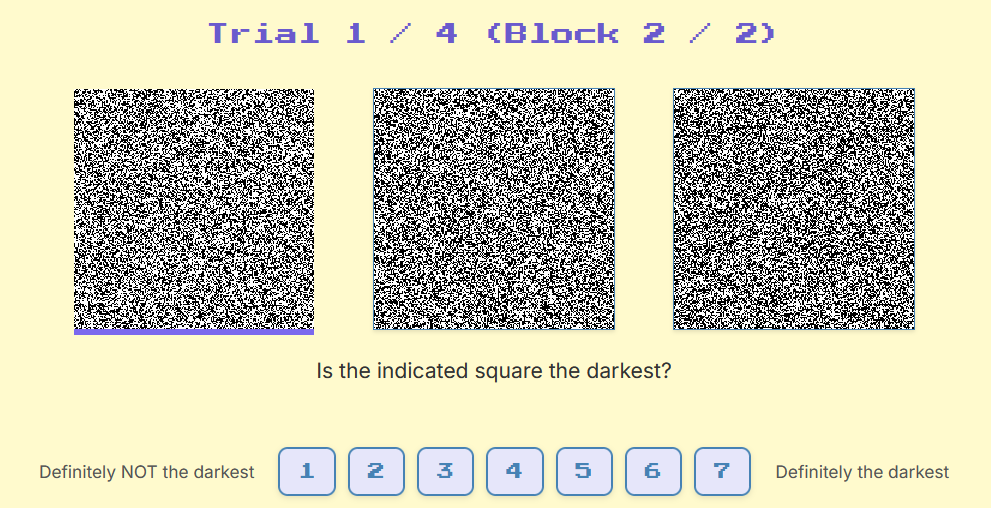
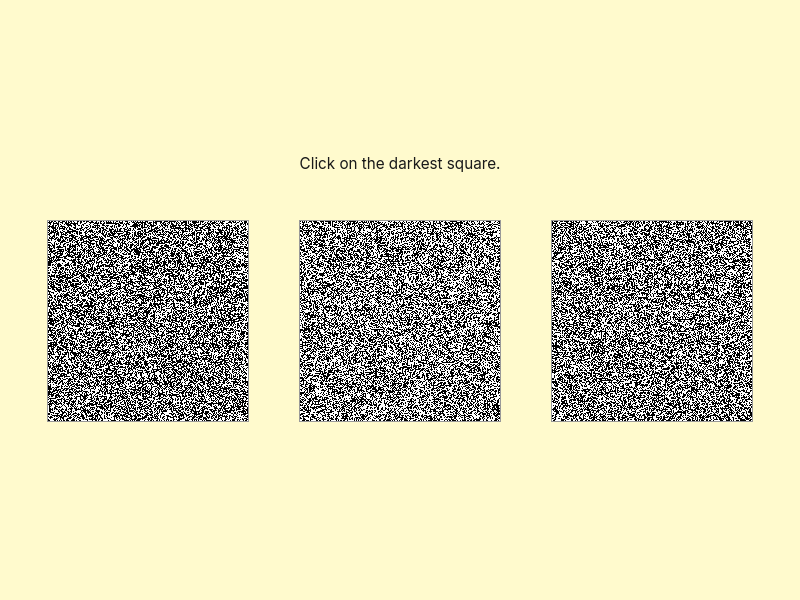
assets: regenerate the four demo thumbnails from the rebuilt demos
Every one was a screenshot of the pre-rebuild UI. The worst was
wheel-of-fortune, which showed the old scattered response buttons rather
than the two-ring annulus, so the hero image on each project page and
the tile on experiments.html advertised an interface that no longer
exists.

Captured from the demos themselves, each fast-forwarded to a
representative frame: balls in flight with both paddles and the DRT
panels; the annulus around a numeral buried in noise; two lesion
photographs mid-comparison; three near-identical noise squares. All four
are now 800x600, where they previously ranged from 632x298 to 1090x861.

Alt text rewritten to describe what is actually in each image, in both
meta.json and the experiments.html tiles -- the old text named the
experiment rather than the picture.

diff --git a/experiments.html b/experiments.html
@@ -35,7 +35,7 @@
         <h2>Available Demos</h2>
         <div class="research-grid">
           <a href="/experiment-demo-viewer.html?demo=team-spirit-hh" class="research-tile">
-            <img src="/assets/images/project-icons/team-spirit-demo.png" alt="Team Spirit experiment demo" />
+            <img src="/assets/images/project-icons/team-spirit-demo.png" alt="Two paddles below a field of purple balls, with the detection-task panels at the screen edges" />
             <div class="tile-body">
               <h3>Team Spirit: teaming with a machine partner</h3>
               <p>Keep the balls in play alongside a machine teammate while answering a second task, and watch your miss rate climb as the workload rises. A short single-player version of the published study.</p>
@@ -48,7 +48,7 @@
                that publishes it. -->
 
           <a href="/experiment-demo-viewer.html?demo=wheel-of-fortune" class="research-tile">
-            <img src="/assets/images/project-icons/wheel-of-fortune-demo.png" alt="Wheel of Fortune Experiment Demo" />
+            <img src="/assets/images/project-icons/wheel-of-fortune-demo.png" alt="A ring of nine numerals around a numeral buried in visual noise" />
             <div class="tile-body">
               <h3>Wheel of Fortune</h3>
               <p>Identify numerals buried in noise &mdash; Arabic, Chinese, Thai or dots &mdash; then watch your mistakes turn into a map of how close those symbols sit in your head.</p>
@@ -56,7 +56,7 @@
           </a>
 
           <a href="/experiment-demo-viewer.html?demo=mel-features" class="research-tile">
-            <img src="/assets/images/project-icons/melanoma-features-demo.png" alt="Lesion feature comparison experiment demo" />
+            <img src="/assets/images/project-icons/melanoma-features-demo.png" alt="Two dermoscopic lesion photographs side by side for comparison" />
             <div class="tile-body">
               <h3>Scaling lesion features by comparison</h3>
               <p>How irregular is irregular? Compare pairs of skin lesions on one feature, and watch a Bradley&ndash;Terry&ndash;Luce model turn your choices into a measured scale.</p>
@@ -64,7 +64,7 @@
           </a>
 
           <a href="/experiment-demo-viewer.html?demo=dc-rs" class="research-tile">
-            <img src="/assets/images/project-icons/dc-rs-demo.png" alt="Choice task vs rating scale experiment demo" />
+            <img src="/assets/images/project-icons/dc-rs-demo.png" alt="Three squares of random black pixels, one very slightly darker than the others" />
             <div class="tile-body">
               <h3>Choice task vs rating scale</h3>
               <p>Pick the darkest of three squares, or rate your confidence that a marked one is darkest &mdash; two ways of asking the same question, and a test of whether they read the same judgment.</p>
